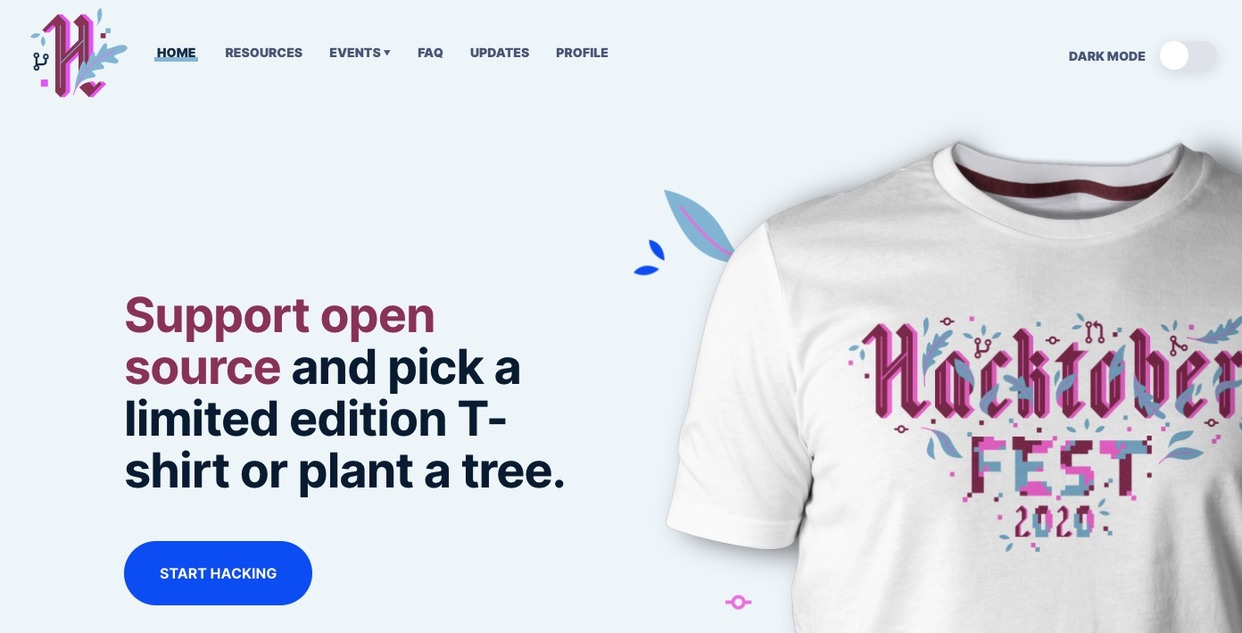
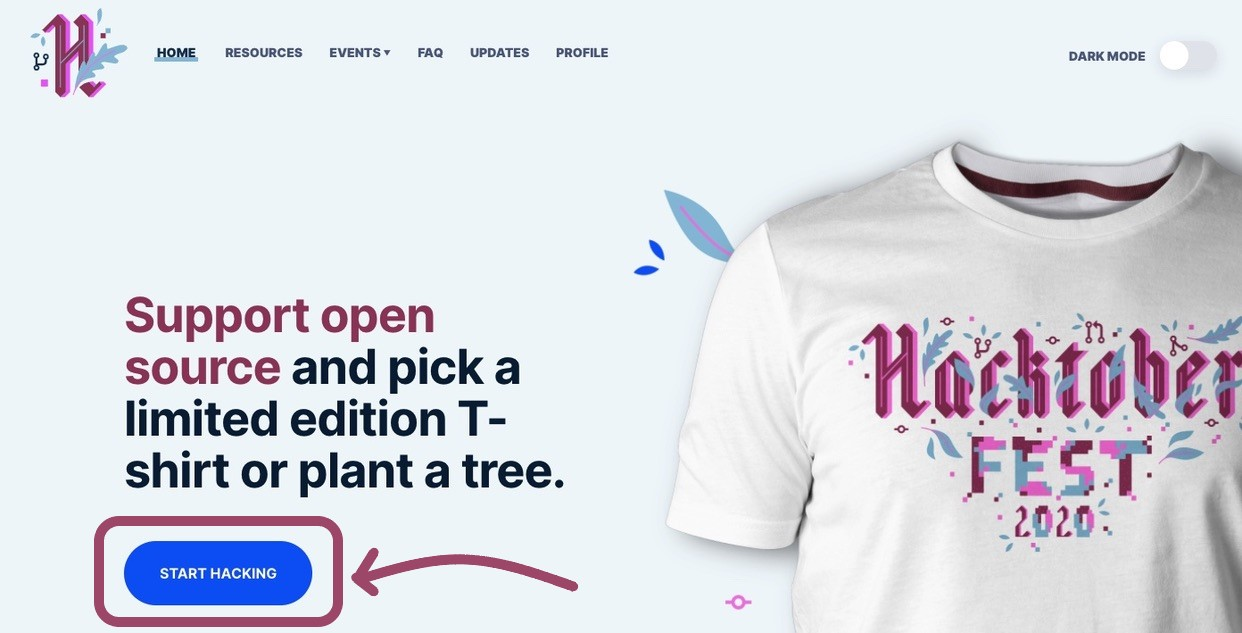
atualiza apresentação sobre a hacktoberfest

Changed region(s): [[0.0612, 0.8104, 0.4589, 0.9905]]

diff --git a/slides/hacktoberfest/index.html b/slides/hacktoberfest/index.html
@@ -60,7 +60,7 @@ top:1em;right:1em;
  R-Ladies São Paulo
 
 
-Atualizado em 15/10/2020
+Atualizado em 16/10/2020
 
 
 ---
@@ -84,7 +84,65 @@ Atualizado em 15/10/2020
 
 - Para ser uma contribuição válida:
 
-**EM BREVE**
+- Precisa ser submetida durante o mês de outubro
+
+- Submetida em um repositório __público__ e:
+  
+  - Para repositórios __sem__ a label `Hacktoberfest`: A pessoa mantenedora do repositório precisa adicionar uma label/rótulo de `hacktoberfest-accepted` no PR
+  
+   - Para repositórios __com__ o tópico `Hacktoberfest`: PR é aprovado ou merged
+
+---
+class: middle
+
+### Como saber se um repositório é público? 
+
+Ele não é privado! __ATENÇÃO:__ Contribuições para repositórios privados NÃO contam para a Hacktoberfest. Exemplo de repositório privado:
+
+&lt;img src="img/exemplo-repo-privado.png" width="100%" style="display: block; margin: auto;" /&gt;
+
+
+
+
+---
+class: middle
+
+## Repositórios podem ter tópicos. 
+
+Exemplo:
+
+&lt;img src="img/exemplo-repo-topicos.png" width="100%" style="display: block; margin: auto;" /&gt;
+
+---
+class: middle
+
+## Exemplos de repositórios
+
+.pull-left[
+### __Com__ tópico Hacktoberfest
+
+&lt;img src="img/exemplo-com-topico-hacktoberfest.PNG" width="100%" style="display: block; margin: auto;" /&gt;
+
+[carpentries/glosario](https://github.com/carpentries/glosario)
+]
+
+.pull-right[
+### __Sem__ tópico Hacktoberfest
+
+&lt;img src="img/exemplo-sem-topico-hacktoberfest.PNG" width="100%" style="display: block; margin: auto;" /&gt;
+
+[R-Ladies-Sao-Paulo/xaringan](https://github.com/R-Ladies-Sao-Paulo/xaringan)
+]
+
+
+---
+class: middle
+
+## Pull Requests (PRs) podem ter labels
+
+Exemplo de Pull Request com label/rótulo de `hacktoberfest-accepted`:
+
+&lt;img src="img/exemplo-PR-label-hacktoberfest-accepted.PNG" width="100%" style="display: block; margin: auto;" /&gt;
 
 
 ---
@@ -93,7 +151,7 @@ Atualizado em 15/10/2020
 - No site da __Hacktoberfest__, clique em [Start Hacking](https://hacktoberfest.digitalocean.com/login)
 
 
-&lt;img src="img/start_hacking.jpeg" width="80%" style="display: block; margin: auto;" /&gt;
+&lt;img src="img/start_hacking.jpeg" width="100%" style="display: block; margin: auto;" /&gt;
 
 ---
 ## Como participar?
@@ -137,7 +195,7 @@ class: middle, center
 
 - ![](https://hacktoberfest.digitalocean.com/assets/icon-light-pending-582457b485f011e10472cf119054f1d8891ae3eed9f6ae7beae19150dcb4ca95.svg)  __Em Revisão__: Seu PR foi aceito por uma pessoa mantenedora e atualmente está dentro do período de revisão, que dura quatorze dias. 
 
-- ![](https://hacktoberfest.digitalocean.com/assets/icon-light-unaccepted-96a3930bd7cc38d7096f1eb28ce184bb18b624bad00079954c644f3e315a559b.svg)  __Pendente__: Seu PR ainda não foi aceito por uma pessoa mantenedora. Uma mantenedora pode aceitar seu PR caso faça o `merge`, adicionando o rótulo "hacktoberfest-aceito" ou aprovando-o. 
+- ![](https://hacktoberfest.digitalocean.com/assets/icon-light-unaccepted-96a3930bd7cc38d7096f1eb28ce184bb18b624bad00079954c644f3e315a559b.svg)  __Pendente__: Seu PR ainda não foi aceito por uma pessoa mantenedora. Uma mantenedora pode aceitar seu PR caso faça o `merge`, adicionando o rótulo "hacktoberfest-accepted" ou aprovando-o. 
 
 - ![](https://hacktoberfest.digitalocean.com/assets/icon-light-invalid-65ff290db8df3c5390866ba4d2e838a61002c1cba601b03e43dd2782ad47840d.svg)  __Inválido__: Seu PR foi rotulado como "inválido" ou "spam" por uma mantenedora e não contará para a Hacktoberfest.
 
@@ -146,7 +204,7 @@ class: middle, center
 ## Legenda (parte 2!)
 
 
-- ![](https://hacktoberfest.digitalocean.com/assets/icon-light-ineligible-4640f9976727559d4dfb33259eda6bb469ed64926da95709549ae8f6266f2a95.svg) __Repositório não elegível__: Seu PR foi enviado para um repositório que não está participando da Hacktoberfest. As mantenedoras do repositório podem adicionar o rótulo "hacktoberfest" ao seu repositório se desejarem participar. Alternativamente, um PR individual pode ser optado por uma mantenedora adicionando o rótulo "hacktoberfest-aceito" ao PR. 
+- ![](https://hacktoberfest.digitalocean.com/assets/icon-light-ineligible-4640f9976727559d4dfb33259eda6bb469ed64926da95709549ae8f6266f2a95.svg) __Repositório não elegível__: Seu PR foi enviado para um repositório que não está participando da Hacktoberfest. As mantenedoras do repositório podem adicionar o tópico "hacktoberfest" ao seu repositório se desejarem participar. Alternativamente, um PR individual pode ser optado por uma mantenedora adicionando o rótulo "hacktoberfest-aceito" ao PR. 
 
 
 - ![](https://hacktoberfest.digitalocean.com/assets/icon-light-eligible-10af2173b253295e62295a5a9a4e13cb03ef63e0f71c378d16700ff3abc9156f.svg) __Aceito__: Parabéns! Seu PR passou no período de revisão e conta para a conclusão do desafio da Hacktoberfest!
